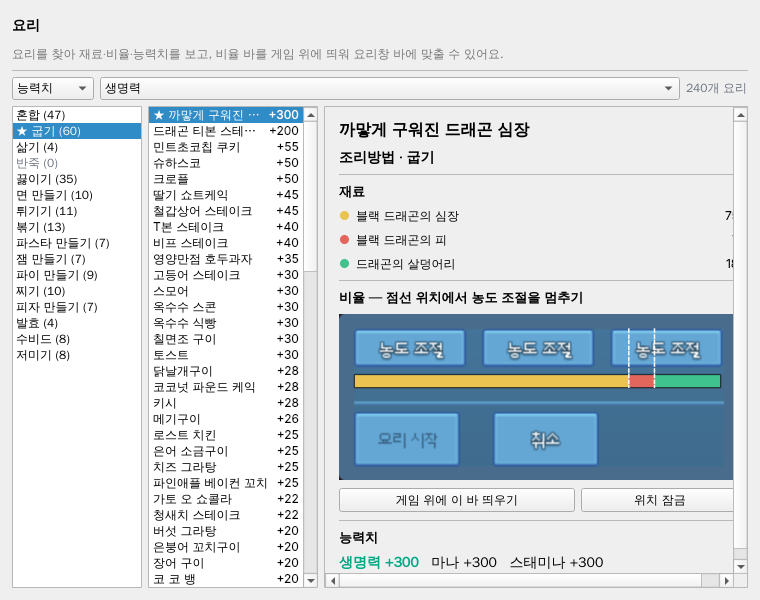
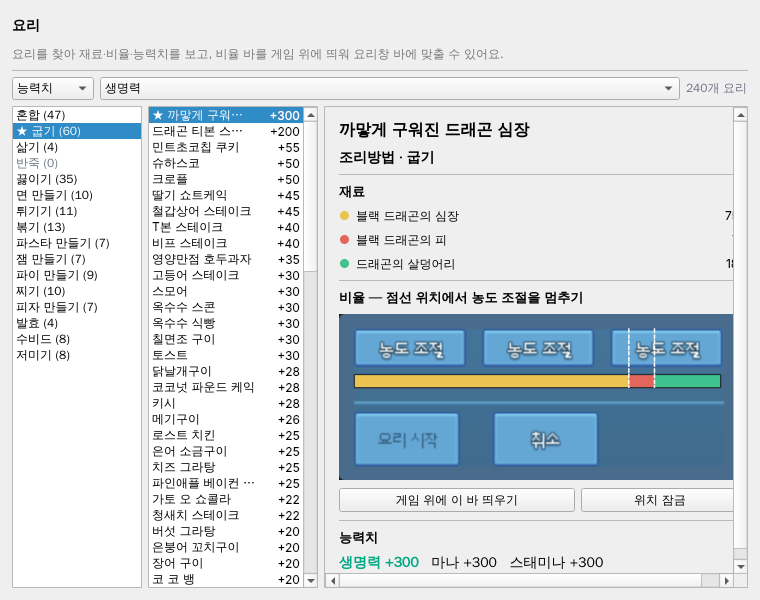
fix: 요리 능력치 목록 선택 줄 글자가 Windows에서 안 보이던 것 — 글자색을 스타일이 그리게 (v0.54.0)
QA 반려(11-21, 후보 44857322587 실측): 델리게이트가 선택 글자를 HighlightedText로 직접 칠해
Windows 11 스타일의 옅은 선택 칸 위에서 묻힘. 이름·수치 모두 drawControl(CE_ItemViewItem)로.
같은 패턴의 CPU 배치 두 줄 목록 델리게이트도 함께.

Claude-Session: https://claude.ai/code/session_01SbFuD9LBQUw7gFTz2Mmv9g

Changed region(s): [[0.1816, 0.18, 0.3934, 0.99]]

diff --git a/tests/test_cooking.py b/tests/test_cooking.py
@@ -547,3 +547,79 @@ def test_tab_name_and_ingredient_search_puts_hits_on_top():
     tab.query.setText("버")                       # 검색어가 바뀌면 맨 위
     assert bar.value() == 0
     tab.shutdown()
+
+
+# ---- 0.54.0 QA 반려: 선택 줄 글자색은 스타일이 정한다(Windows 11 = 옅은 칸 + Text 글자) ----
+def _stat_tab():
+    from PySide6.QtWidgets import QApplication
+
+    from mabinogi_addon.ui.cooking_tab import _DISH, CookingTab
+    tab = CookingTab()
+    tab.resize(760, 500)
+    tab.show()
+    tab.kind.setCurrentText("능력치")
+    tab.stat.setCurrentIndex(tab.stat.findData("마법공격력"))
+    row = next(i for i in range(tab.category_list.count()) if tab.category_list.item(i).data(_DISH) == "혼합")
+    tab.category_list.setCurrentRow(row)
+    tab.select(tab.dish_list.item(0).data(_DISH))
+    QApplication.processEvents()
+    return tab
+
+
+def _light_selection_style():
+    """선택을 Highlight로 채우지 않고 옅은 칸 + Text 글자로 그리는 스타일(Windows 11 흉내) + drawControl 기록."""
+    from PySide6.QtGui import QColor, QPalette
+    from PySide6.QtWidgets import QProxyStyle, QStyle, QStyleFactory
+
+    class Style(QProxyStyle):
+        def __init__(self):
+            super().__init__(QStyleFactory.create("Fusion"))
+            self.calls = []
+
+        def drawControl(self, element, option, painter, widget=None):
+            if element == QStyle.ControlElement.CE_ItemViewItem:
+                self.calls.append((option.text, bool(option.state & QStyle.StateFlag.State_Selected)))
+                if option.state & QStyle.StateFlag.State_Selected:
+                    from PySide6.QtWidgets import QStyleOptionViewItem
+                    light = QStyleOptionViewItem(option)
+                    light.state &= ~QStyle.StateFlag.State_Selected
+                    painter.fillRect(option.rect, QColor(225, 222, 235))  # 옅은 선택 칸
+                    pal = QPalette(light.palette)
+                    pal.setColor(QPalette.ColorRole.Text, QColor(20, 20, 20))
+                    light.palette = pal
+                    light.backgroundBrush = QColor(0, 0, 0, 0)
+                    return super().drawControl(element, light, painter, widget)
+            return super().drawControl(element, option, painter, widget)
+    return Style()
+
+
+def test_selected_value_row_text_drawn_by_style_and_visible_on_light_selection():
+    from PySide6.QtGui import QColor, QPalette
+
+    from mabinogi_addon.ui.cooking_tab import _VALUE
+    tab = _stat_tab()
+    style = _light_selection_style()
+    lst = tab.dish_list
+    lst.setStyle(style)
+    pal = lst.palette()
+    pal.setColor(QPalette.ColorRole.HighlightedText, QColor(225, 222, 235))  # on-accent를 일부러 옅은 칸과 같게
+    lst.setPalette(pal)
+    item = lst.item(0)
+    assert item.isSelected() and item.data(_VALUE) == "+5"
+    image = lst.viewport().grab().toImage()
+    texts = [t for t, sel in style.calls if sel]
+    assert any(t.startswith("★ 불금") for t in texts) and "+5" in texts   # 이름·수치 모두 스타일이 그림(선택 상태 유지)
+    rect = lst.visualItemRect(item)
+    right = min(rect.right(), lst.viewport().width() - 1)
+    dark = [image.pixelColor(x, y).lightness() for x in range(right - 20, right) for y in range(rect.top(), rect.bottom())]
+    assert max(dark) - min(dark) >= 60   # 수치 글자가 옅은 선택 칸과 구분됨
+    tab.shutdown()
+
+
+def test_value_delegate_never_picks_text_color_itself():
+    import inspect
+
+    from mabinogi_addon.ui import cooking_tab, optimization_panel
+    for cls in (cooking_tab._ValueDelegate, optimization_panel._TwoLineDelegate):
+        src = inspect.getsource(cls.paint)
+        assert "HighlightedText" not in src and "drawText" not in src

diff --git a/src/mabinogi_addon/ui/optimization_panel.py b/src/mabinogi_addon/ui/optimization_panel.py
@@ -24,19 +24,25 @@ class _TwoLineDelegate(QStyledItemDelegate):
         from PySide6.QtWidgets import QApplication, QStyle, QStyleOptionViewItem
         item = QStyleOptionViewItem(option)
         self.initStyleOption(item, index)
-        item.text = ''
         style = item.widget.style() if item.widget is not None else QApplication.style()
-        style.drawControl(QStyle.ControlElement.CE_ItemViewItem, item, painter, item.widget)
+        # 글자 색은 스타일이 정한다(0.54.0: Windows 11 스타일은 선택 줄을 옅은 칸 + Text 글자로 그려 선택 글자색 직접 칠하기가 묻힘)
         name, _, detail = popup.partition('\n')
         selected = bool(option.state & QStyle.StateFlag.State_Selected)
-        palette = option.palette
-        rect = option.rect.adjusted(8, 3, -8, -3)
+        rect = option.rect
         half = rect.height() // 2
+        item.text = name
+        item.displayAlignment = Qt.AlignmentFlag.AlignLeft | Qt.AlignmentFlag.AlignTop
+        style.drawControl(QStyle.ControlElement.CE_ItemViewItem, item, painter, item.widget)   # 배경·선택·이름(위 줄)
+        second = QStyleOptionViewItem(item)
+        second.text = detail
+        second.displayAlignment = Qt.AlignmentFlag.AlignLeft | Qt.AlignmentFlag.AlignBottom
+        if not selected:  # 둘째 줄 회색 — 선택 줄은 스타일의 선택 글자색 그대로
+            palette = QPalette(second.palette)
+            palette.setColor(QPalette.ColorRole.Text, palette.color(QPalette.ColorRole.PlaceholderText))
+            second.palette = palette
         painter.save()
-        painter.setPen(palette.color(QPalette.ColorRole.HighlightedText if selected else QPalette.ColorRole.Text))
-        painter.drawText(rect.adjusted(0, 0, 0, -half), Qt.AlignmentFlag.AlignVCenter | Qt.AlignmentFlag.AlignLeft, name)
-        painter.setPen(palette.color(QPalette.ColorRole.HighlightedText if selected else QPalette.ColorRole.PlaceholderText))
-        painter.drawText(rect.adjusted(0, half, 0, 0), Qt.AlignmentFlag.AlignVCenter | Qt.AlignmentFlag.AlignLeft, detail)
+        painter.setClipRect(rect.adjusted(0, half, 0, 0))
+        style.drawControl(QStyle.ControlElement.CE_ItemViewItem, second, painter, item.widget)  # 배분(아래 줄)
         painter.restore()
 
     def sizeHint(self, option, index):

diff --git a/docs/status.md b/docs/status.md
@@ -13,6 +13,7 @@
   → `tests/test_cooking.py`(순수 정렬·동점·최고 동점·능력치 없는 카테고리, 탭 순서·회색 아래·수치·★ 위치·다른 검색 이름순·능력치 바꾸면 스크롤 0) + test_list_click_scroll·test_cooking_autofind 60 통과, 배포 검사 0.54.0 423 통과.
   **추가(사용자 결정 11-21)**: 이름·재료 검색도 맞는 요리 위(이름순)·안 맞는 요리 회색 아래(이름순), 수치·★ 없음, 검색어 바뀌면 스크롤 맨 위(_filled_query = 검색 종류 + 검색어). 렌더 4_ingredient_rice_mix.png(재료 '밥' + 혼합). 명세 3절·노트 헤드라인 반영. test_tab_name_and_ingredient_search_puts_hits_on_top.
   **잡담 요리 추천(사용자 결정 11-21)**: `creator_dialogue` TIP_FEATURES·TOOL_FEATURES에 cooking, `main_window._current_tool` 계산기 › 요리 탭이면 cooking(기록 때 calc도), `open_tip_feature('cooking')` → 편의기능 › 계산기 › 요리, `assets/dialogues.json`(+docs/examples 사본) tip-cooking '단체 요리 비율·능력치, 계산기 요리에서 찾고 요리창에 바를 띄워 보세요', 잡담 명세 17.3·17.5. 렌더 5_tip_cooking.png. `tests/test_dialogue_tips.py`(추천 19·전체 29, 요리 탭 안 열면 추천·보러 가기 → 요리 탭·열면 cooking+calc 기록, parse_tips 수용). 배포 검사 0.54.0 547 통과.
+  **QA 반려(11-21 후보 44857322587, Windows 실측: 능력치 검색 선택 줄 글자 안 보임)**: `_ValueDelegate`가 선택 글자를 HighlightedText(on-accent)로 직접 칠함 — Windows 11 스타일은 선택을 옅은 칸 + Text 글자로 그려 묻힘(Fusion 렌더에선 Highlight 채움이라 안 보였음). 이름 = drawControl(CE_ItemViewItem) 한 번, 수치 = 수치 칸 clip 후 같은 옵션으로 한 번 더 — 글자색은 스타일 규칙. 같은 패턴 `optimization_panel._TwoLineDelegate`도(둘째 줄 회색은 비선택만 팔레트로). → `tests/test_cooking.py`(옅은 선택 프록시 스타일: 이름·수치 drawControl·선택 유지·수치 칸 밝기 차 ≥60 — 예전 코드 실패 확인, 두 델리게이트에 직접 칠하기 없음). 렌더 1·3 다시(같음).
 - **0.53.2 개발(11-21 DEV, QA 전달 사용자 보고 '목록 아래로 내려서 누르면 포커스가 이상하게 바뀜')** — 요리: 목록에서 누를 때마다 `select()`→`_fill_dishes()`가 clear·다시 채움 → 스크롤 0 + EnsureVisible로 누른 줄이 맨 아래로 튐 → 같은 카테고리면 다시 채우지 않고 선택 표시만(`_mark_selected`), 다시 채울 때도 같은 카테고리면 스크롤 유지, 다른 카테고리면 맨 위에서 고른 요리가 화면 밖일 때만 가운데로.
   버프·디버프: 이름 칸 포커스 아웃 저장이 `_rebuild_list()`(clear)로 스크롤을 바꿔 그 직후 마우스 누름이 다른 줄을 고름 → 이름 저장은 그 줄만 `_style_item`(`_restyle`), `_rebuild_list`도 같은 구성이면 스크롤 복원. 커스텀 오버레이 표 `_refresh_overlays`도 같은 개수면 스크롤 복원(클릭 경로는 원래 다시 안 그림).
   → `tests/test_list_click_scroll.py`(QTest 실제 클릭 5: 요리 스크롤·줄 y 그대로, ▸ 다른 카테고리 이동 화면 안, 버프·디버프 이름 고친 뒤 가운데 줄 클릭 = 그 줄·스크롤 그대로·이름 저장, 커스텀 표) — 예전 코드에서 3개 실패 확인. 노트 v0.53.2 한 줄. 배포 검사 0.53.2 420 통과.
